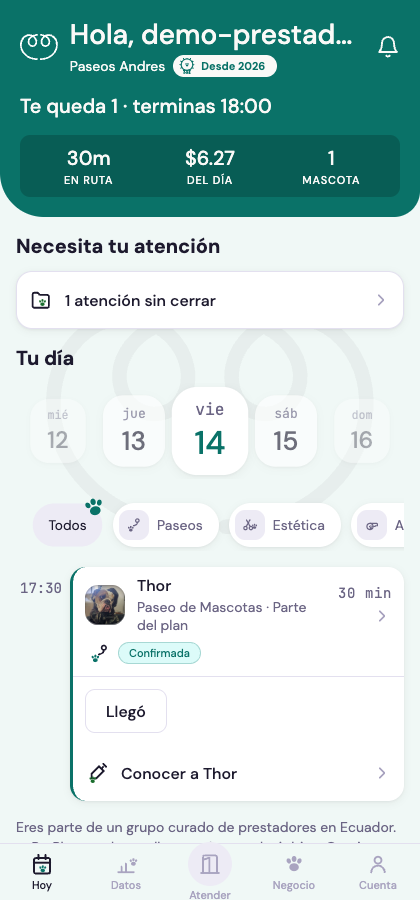
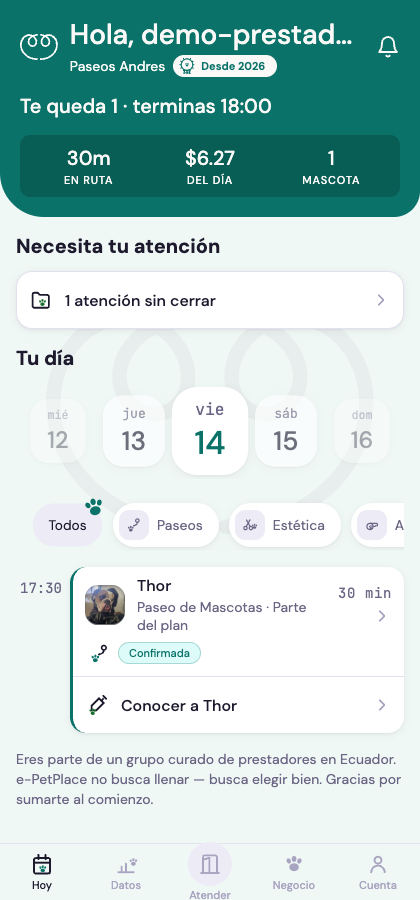
feat(s98-c): LA PIZARRA PASA A HOJA SOBRE `ATENDER` — con la asignación INLINE (firma (a))
CONSULTAR NO ES NAVEGAR. La pizarra se mira para saber qué hay sin dueño y
se vuelve a lo que uno estaba haciendo: una pantalla te saca del lugar y
te obliga a volver; una Hoja se levanta y deja la portada debajo, a la
vista. **El discriminador está en la captura**: las baldosas y la banda
siguen ahí atrás.

☠ LA RUTA `/pizarra` MURIÓ con la mudanza (Ley 37) — medido antes de
borrarla: su UNICA entrada era la portada de ATENDER. No queda una segunda
superficie para lo mismo, que es el defecto que este lote viene cerrando.

🔴 Y LA HOJA INTERNA DE ASIGNAR MURIÓ, que era la parte estructural: con la
pizarra ya siendo Hoja, elegir persona habría sido **un `Modal` dentro de
un `Modal`** — dos gestos de cierre encimados y un swipe que nadie sabe
cuál de las dos se lleva.

LA SELECCIÓN PASA ADENTRO DE LA FILA, y el cambio se lleva algo mejor que
un problema técnico: **ahora la persona se elige VIENDO la cita**. Muere
también la línea de contexto que la Hoja tenía que repetir arriba (día ·
hora · servicio · mascota), porque la fila que la abre ya lo dice. *Lo que
era una restricción de plataforma terminó siendo la composición correcta.*

Y el botón «Asignar» se apaga por SU PROPIA fila y no porque haya otra
abierta: abrir la de al lado cierra ésta, que es lo que uno espera de un
acordeón.

LA CARGA PASA DE FOCO A APERTURA: una Hoja no gana ni pierde foco de
navegación —la pantalla de abajo lo conserva—, así que `useFocusEffect` no
[…]

Changed region(s): [[0.031, 0.7778, 0.9595, 0.9333]]

diff --git a/apps/prestador/src/components/atender/pizarra-hoja.tsx b/apps/prestador/src/components/atender/pizarra-hoja.tsx
@@ -1,13 +1,38 @@
 /**
- * ⭐ S86-C · LA PIZARRA — las citas de tu especialidad SIN tratante
- * (lámina firmada del 4-ago). Superficie del PRESTADOR EMPLEADO.
+ * ⭐ S98-C · LA PIZARRA, AHORA HOJA SOBRE `ATENDER` (firma del founder,
+ * opción (a)). **Consultar no es navegar.**
  *
- * QUÉ ES: lo que el mostrador mandó a la pizarra a propósito (el chip de
- * `mostrador/atencion.tsx`) más lo que nació sin tratante.
- * `obtener_pizarra` ya filtra por ESPECIALIDAD con el predicado extraído
- * en S78 — acá no se inventa ningún filtro.
+ * ⏪ VIVÍA EN `/pizarra` COMO PANTALLA (S86-C) y la ruta MURIÓ con esta
+ * mudanza — no queda una segunda superficie para lo mismo (Ley 37). Su
+ * única entrada era la portada de `ATENDER`, medido antes de borrarla.
  *
- * ═══ LA DECISIÓN QUE GOBIERNA ESTA PANTALLA ══════════════════════════
+ * ═══ POR QUÉ HOJA Y NO PANTALLA ══════════════════════════════════════
+ * La pizarra se CONSULTA: mirar qué hay sin dueño y volver a lo que uno
+ * estaba haciendo. Una pantalla te saca del lugar y te obliga a volver;
+ * una Hoja se levanta sobre la portada y la deja debajo, a la vista.
+ * *Navegar es para ir a otro lado; acá no se va a ningún lado.*
+ *
+ * ═══ 🔴 LA ASIGNACIÓN ES INLINE, Y LA HOJA INTERNA MURIÓ ═════════════
+ * Hasta S88 elegir persona abría **una segunda Hoja sobre la primera**.
+ * Con la pizarra ya siendo Hoja, eso sería **una Hoja sobre otra Hoja** —
+ * un `Modal` dentro de un `Modal`, con dos gestos de cierre encimados y
+ * un swipe que nadie sabe cuál de las dos se lleva.
+ *
+ * **La selección pasa ADENTRO de la fila**: al tocar «Asignar», la fila
+ * se expande con su selector y su confirmar. Y el cambio se lleva algo
+ * mejor que un problema técnico: *ahora la persona se elige VIENDO la
+ * cita*, en vez de en una superficie aparte que tenía que repetirle el
+ * contexto arriba. **Muere también esa línea de contexto duplicada** — la
+ * fila que la abre ya dice el día, la hora, el servicio y la mascota.
+ *
+ * ═══ LOS DOS FLUJOS SON SECUENCIALES, POR DISEÑO (firma) ═════════════
+ * Si en medio de una asignación entra un walk-in, el camino es **cerrar
+ * la Hoja, hacer el alta, y volver a abrirla**. No se soporta tenerlas
+ * las dos al mismo tiempo, y no es una limitación: *el mostrador atiende
+ * a UNA persona por vez, y una superficie que finge dos manos le miente
+ * a quien tiene una.*
+ *
+ * ═══ LA DECISIÓN QUE GOBIERNA ESTA SUPERFICIE ══════════════════════════
  * **«Tomar te la asigna al instante. Si alguien la tomó primero, la
  * pizarra te lo dice — nunca te la saca en silencio.»**
  *
@@ -27,20 +52,17 @@
  * no se pinta nunca.
  */
 
-import { useCallback, useState } from 'react';
-import { ScrollView, View } from 'react-native';
-import { useFocusEffect, useRouter } from 'expo-router';
-import { useSafeAreaInsets } from 'react-native-safe-area-context';
+import { useCallback, useEffect, useState } from 'react';
+import { View } from 'react-native';
 import {
   AvatarMascota,
   Boton,
   Celda,
-  Encabezado,
   Esqueleto,
   EsqueletoGrupo,
   EstadoVacio,
   Hoja,
-  MarcaDeAgua,
+  HojaScroll,
   Separador,
   SelectorOpcion,
   Tarjeta,
@@ -81,12 +103,14 @@ function esEspecie(v: string | null): v is AvatarMascotaEspecie {
   return v !== null;
 }
 
-export default function Pizarra() {
-  const router = useRouter();
-  const { theme } = useTheme();
+export interface PizarraHojaProps {
+  visible: boolean;
+  onCerrar: () => void;
+}
+
+export function PizarraHoja({ visible, onCerrar }: PizarraHojaProps) {
   const { t, idioma } = useTraduccion();
   const { mostrar } = useAviso();
-  const insets = useSafeAreaInsets();
   const [pantalla, setPantalla] = useState<Pantalla>({ estado: 'cargando' });
   const [resultados, setResultados] = useState<Map<string, Resultado>>(new Map());
   const [tomando, setTomando] = useState<string | null>(null);
@@ -110,8 +134,13 @@ export default function Pizarra() {
   const [personaElegida, setPersonaElegida] = useState<string | undefined>(undefined);
   const [confirmando, setConfirmando] = useState(false);
 
-  useFocusEffect(
-    useCallback(() => {
+  /* ⏪ Era `useFocusEffect`: una Hoja no gana ni pierde FOCO de
+     navegación — la pantalla de abajo lo conserva. Se lee AL ABRIR, que
+     es el momento en que este contenido pasa a existir para quien mira.
+     Y se relee en cada apertura a propósito: entre una y otra alguien del
+     equipo pudo haber tomado una cita. */
+  useEffect(() => {
+      if (!visible) return;
       let vigente = true;
       void (async () => {
         const pr = await obtenerMiPrestador();
@@ -140,8 +169,7 @@ export default function Pizarra() {
       return () => {
         vigente = false;
       };
-    }, []),
-  );
+  }, [visible]);
 
   /** El día en voz: hoy · mañana · el día corto. La pizarra mezcla
    *  fechas y sin esto todas las filas se leen igual. */
@@ -259,17 +287,9 @@ export default function Pizarra() {
   const citas = pantalla.estado === 'listo' ? pantalla.citas : [];
 
   return (
-    <View style={{ flex: 1, backgroundColor: theme.bg.base }}>
-      <MarcaDeAgua />
-      <Encabezado
-        variante="navegacion"
-        titulo={t('pizarra.titulo')}
-        atras
-        onAtras={() => router.back()}
-      />
-      <ScrollView
-        contentContainerStyle={{ padding: spacing[4], paddingBottom: insets.bottom + spacing[10], gap: spacing[4] }}
-      >
+    <Hoja visible={visible} onCerrar={onCerrar} titulo={t('pizarra.titulo')} altura="media">
+      <HojaScroll>
+        <View style={{ gap: spacing[4] }}>
         <Texto variante="apoyo">{t('pizarra.subtitulo')}</Texto>
 
         {pantalla.estado === 'cargando' && (
@@ -341,12 +361,17 @@ export default function Pizarra() {
                       ) : puedoAsignar ? (
                         /* ⭐ S88-C: quien RUTEA no toma — recepción no tiene
                            chips y «Tomar» le rebotaría seguro (Ley 23). El
-                           verbo se pinta por el espejo del motor. */
+                           verbo se pinta por el espejo del motor.
+                           ⭐ S98-C: abre la asignación ADENTRO de esta fila.
+                           El botón se apaga mientras SU propia fila está
+                           abierta —no mientras hay otra abierta—: abrir la
+                           de al lado cierra ésta, que es lo que uno espera
+                           de un acordeón. */
                         <Boton
                           variante="secundario"
                           tamaño="sm"
                           etiqueta={t('pizarra.asignar')}
-                          deshabilitado={asignando !== null}
+                          deshabilitado={asignando?.citaId === c.citaId}
                           onPress={() => abrirAsignar(c)}
                         />
                       ) : (
@@ -361,74 +386,64 @@ export default function Pizarra() {
                       )
                     }
                   />
+                  {/* ⭐ S98-C · LA ASIGNACIÓN, INLINE — acá vivía la
+                      apertura de una segunda Hoja (S88-C), y con la
+                      pizarra ya siendo Hoja habría sido un `Modal` dentro
+                      de otro. **Y la mudanza mejora lo que hacía:** la
+                      persona se elige VIENDO la cita —la fila de arriba
+                      dice día, hora, servicio y mascota—, así que muere
+                      también la línea de contexto que la Hoja tenía que
+                      repetir. */}
+                  {asignando?.citaId === c.citaId && (
+                    <View style={{ paddingHorizontal: spacing[4], paddingBottom: spacing[4], gap: spacing[3] }}>
+                      {personas === null ? (
+                        <EsqueletoGrupo>
+                          <View style={{ gap: spacing[2] }}>
+                            <Esqueleto forma="linea" ancho="70%" />
+                            <Esqueleto forma="linea" ancho="55%" />
+                          </View>
+                        </EsqueletoGrupo>
+                      ) : personas === 'error' ? (
+                        /* La lectura caída SE DICE, jamás se disfraza de
+                           «no hay nadie» (L-197). */
+                        <Texto variante="apoyo" color="danger">{t('pizarra.asignarSinPersonas')}</Texto>
+                      ) : personas.length === 0 ? (
+                        <Texto variante="apoyo">{t('pizarra.asignarNadie')}</Texto>
+                      ) : (
+                        <SelectorOpcion
+                          etiqueta={t('pizarra.asignarQuien')}
+                          disposicion="columnas"
+                          acento="oficio"
+                          opciones={personas.map((p) => ({
+                            codigo: p.empleadoId,
+                            /* `tieneJornada` INFORMA, no filtra (contrato
+                               del lector): una cita ya pactada puede
+                               rutearse a quien no cargó horario — se dice
+                               para que quien reparte decida sabiendo. */
+                            etiqueta: `${p.nombre ?? t('recepcion.personaFallback')}${
+                              p.tieneJornada ? '' : ` · ${t('pizarra.sinJornada')}`
+                            }`,
+                          }))}
+                          seleccionada={personaElegida}
+                          onSelect={setPersonaElegida}
+                        />
+                      )}
+                      <Boton
+                        etiqueta={t('pizarra.asignarConfirmar')}
+                        bloque
+                        cargando={confirmando}
+                        deshabilitado={personaElegida === undefined}
+                        onPress={() => void confirmarAsignar()}
+                      />
+                    </View>
+                  )}
                 </View>
               );
             })}
           </Tarjeta>
         )}
-      </ScrollView>
-
-      {/* ⭐ S88-C · LA HOJA DEL VERBO — elegir quién atiende la huérfana.
-          El día y el servicio de la cita presiden (contexto, no adorno);
-          la lectura caída de personas SE DICE, jamás se disfraza de «no
-          hay nadie» (L-197). */}
-      <Hoja visible={asignando !== null} onCerrar={() => setAsignando(null)} titulo={t('pizarra.asignarQuien')}>
-        {asignando !== null && (
-          <View style={{ gap: spacing[3] }}>
-            <Texto variante="apoyo">
-              {`${diaEnVoz(asignando.fecha)} ${asignando.hora.slice(0, 5)} · ${
-                asignando.servicioVoz ?? t('pizarra.servicioSinVoz')
-              } · ${asignando.mascotaNombre}`}
-            </Texto>
-            {personas === null ? (
-              <EsqueletoGrupo>
-                <View style={{ gap: spacing[2] }}>
-                  <Esqueleto forma="linea" ancho="70%" />
-                  <Esqueleto forma="linea" ancho="55%" />
-                </View>
-              </EsqueletoGrupo>
-            ) : personas === 'error' ? (
-              <Texto variante="apoyo" color="danger">{t('pizarra.asignarSinPersonas')}</Texto>
-            ) : personas.length === 0 ? (
-              <Texto variante="apoyo">{t('pizarra.asignarNadie')}</Texto>
-            ) : (
-              /* ⏪ S88-C (5-ago): decía `disposicion="tira"` — la tira trunca cada
-                 chip a UNA línea (`numberOfLines=1` en toda disposición no-columna)
-                 y «Prueba Profesional S87 · no schedule» moría en «· no»: el
-                 sufijo `sinJornada` es EL dato que informa la decisión de quien
-                 reparte, y truncado la Hoja informaba a medias justo ahí.
-                 `columnas` ENVUELVE (flexWrap + sin tope de líneas) — el criterio
-                 firmado de los canales de preferencias: lo que se corta es
-                 información, no adorno. De paso muere la tira que no desplazaba
-                 dentro de la Hoja (el gesto del sheet se la comía). */
-              <SelectorOpcion
-                etiqueta={t('pizarra.asignarQuien')}
-                disposicion="columnas"
-                acento="oficio"
-                opciones={personas.map((p) => ({
-                  codigo: p.empleadoId,
-                  /* `tieneJornada` INFORMA, no filtra (contrato del lector):
-                     una cita ya pactada puede rutearse a quien no cargó
-                     horario — se dice para que quien reparte decida
-                     sabiendo. El nombre null cae al fallback digno. */
-                  etiqueta: `${p.nombre ?? t('recepcion.personaFallback')}${
-                    p.tieneJornada ? '' : ` · ${t('pizarra.sinJornada')}`
-                  }`,
-                }))}
-                seleccionada={personaElegida}
-                onSelect={setPersonaElegida}
-              />
-            )}
-            <Boton
-              etiqueta={t('pizarra.asignarConfirmar')}
-              bloque
-              cargando={confirmando}
-              deshabilitado={personaElegida === undefined}
-              onPress={() => void confirmarAsignar()}
-            />
-          </View>
-        )}
-      </Hoja>
-    </View>
+        </View>
+      </HojaScroll>
+    </Hoja>
   );
 }

diff --git a/apps/prestador/src/app/(tabs)/atender.tsx b/apps/prestador/src/app/(tabs)/atender.tsx
@@ -52,6 +52,7 @@ import {
   resolverCapacidadAtender,
   type CapacidadAtender,
 } from '@/lib/capacidad-atender';
+import { PizarraHoja } from '@/components/atender/pizarra-hoja';
 import { hoyLocalISO } from '@/lib/ventas-formato';
 import { useTraduccion } from '@/i18n';
 
@@ -127,6 +128,8 @@ export default function Atender() {
   const insets = useSafeAreaInsets();
   const [pantalla, setPantalla] = useState<Pantalla>({ fase: 'cargando' });
   const [intento, setIntento] = useState(0);
+  /** ⭐ S98-C · la pizarra se CONSULTA sobre esta portada, no se navega. */
+  const [pizarraAbierta, setPizarraAbierta] = useState(false);
 
   useFocusEffect(
     useCallback(() => {
@@ -366,7 +369,7 @@ export default function Atender() {
                         ? t('pizarra.entradaUna')
                         : t('pizarra.entradaN', { n: pizarra })
                   }
-                  onPress={() => router.push('/pizarra')}
+                  onPress={() => setPizarraAbierta(true)}
                 />
               </Tarjeta>
             )}
@@ -397,6 +400,19 @@ export default function Atender() {
           </>
         )}
       </ScrollView>
+
+      {/* ⭐ S98-C · LA PIZARRA SUBE SOBRE LA PORTADA (firma (a)). Se monta
+          FUERA del ScrollView: una Hoja no es contenido de la pantalla —
+          se levanta sobre ella y la deja debajo, a la vista. */}
+      <PizarraHoja
+        visible={pizarraAbierta}
+        onCerrar={() => {
+          setPizarraAbierta(false);
+          // Al cerrar se recarga la portada: la pizarra pudo cambiar el
+          // conteo (alguien tomó o asignó una cita ahí adentro).
+          setIntento((n) => n + 1);
+        }}
+      />
     </View>
   );
 }
